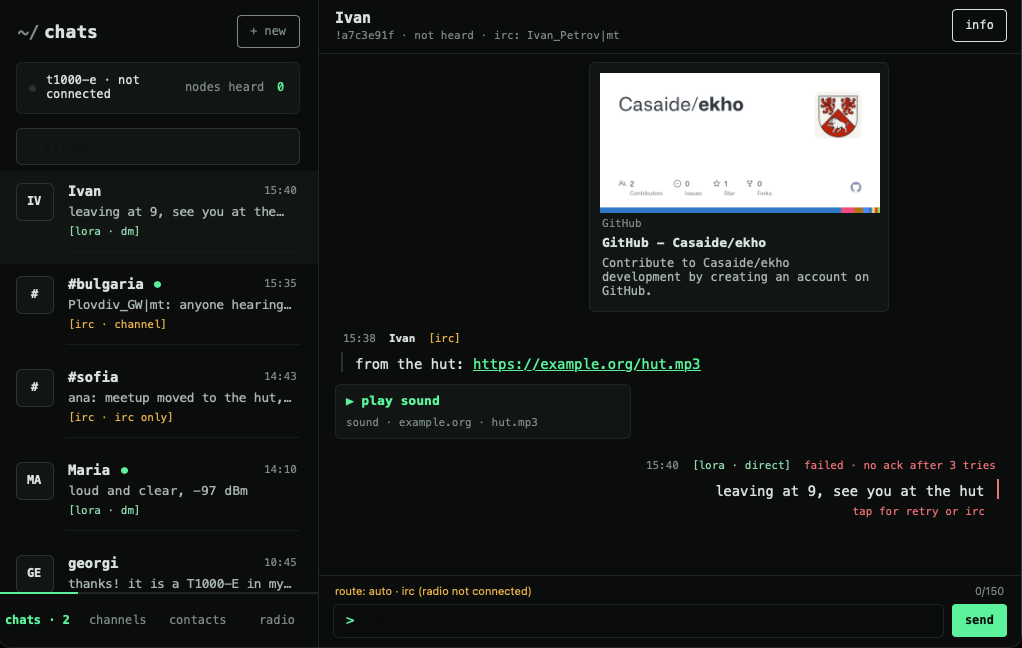
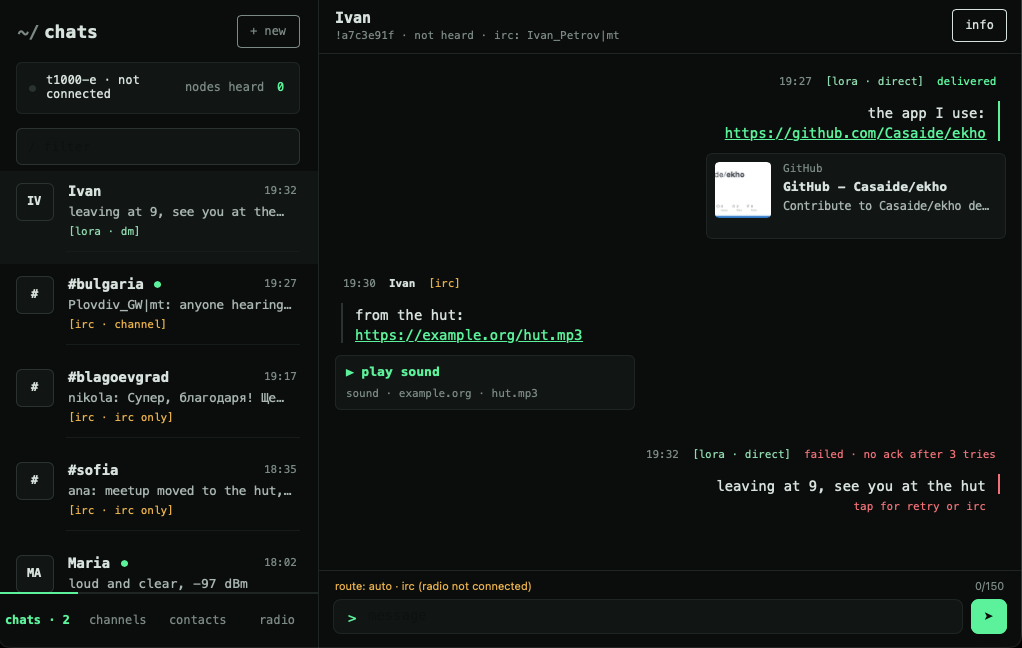
docs(readme): translation in the screenshots

diff --git a/README.md b/README.md
@@ -20,6 +20,8 @@
   <img src="docs/screenshots/phone-chats.png" width="250" alt="Your conversations">
   &nbsp;
   <img src="docs/screenshots/phone-thread.png" width="250" alt="A conversation with Ivan: a link preview and a voice note">
+  &nbsp;
+  <img src="docs/screenshots/phone-translate.png" width="250" alt="A Bulgarian channel shown in English, with a message sent in Bulgarian">
 </p>
 
 ## What it does
@@ -32,7 +34,7 @@ ekho is a messenger for people with a Meshtastic radio, such as the Seeed T1000-
 - **Channels too.** `#bulgaria` and the regional channels (`#sofia`, `#varna`, `#burgas` and more) are a tap away. Channels your radio also has are marked as reaching the mesh; the rest are internet only.
 - **See who's around.** The contacts tab shows everyone heard on the radio and everyone online in your channels, one entry per person.
 - **Links come alive.** Pages show a preview with their picture, and a link to a sound or video plays right in the conversation: send a voice note as a link to the recording.
-- **Bulgarian in English, if you like.** Turn on translation in the radio tab and Bulgarian messages show in English, translated on your phone. The model (Mozilla's, from Firefox Translations) downloads once; the original is a hold away.
+- **Bulgarian in English, if you like.** Turn on translation in the radio tab and messages with Bulgarian in them show in English, translated on your phone; hold one to see the original, or to translate any other. Switch on `→ bg` above the message box to write in English and send in Bulgarian, with the Bulgarian shown before it goes. The models (Mozilla's, from Firefox Translations) download once. Android only for now.
 - **You decide on failures.** If a radio message isn't delivered, ekho never resends it behind your back. Tap it to try the radio again or send it over the internet instead.
 
 <p align="center">
